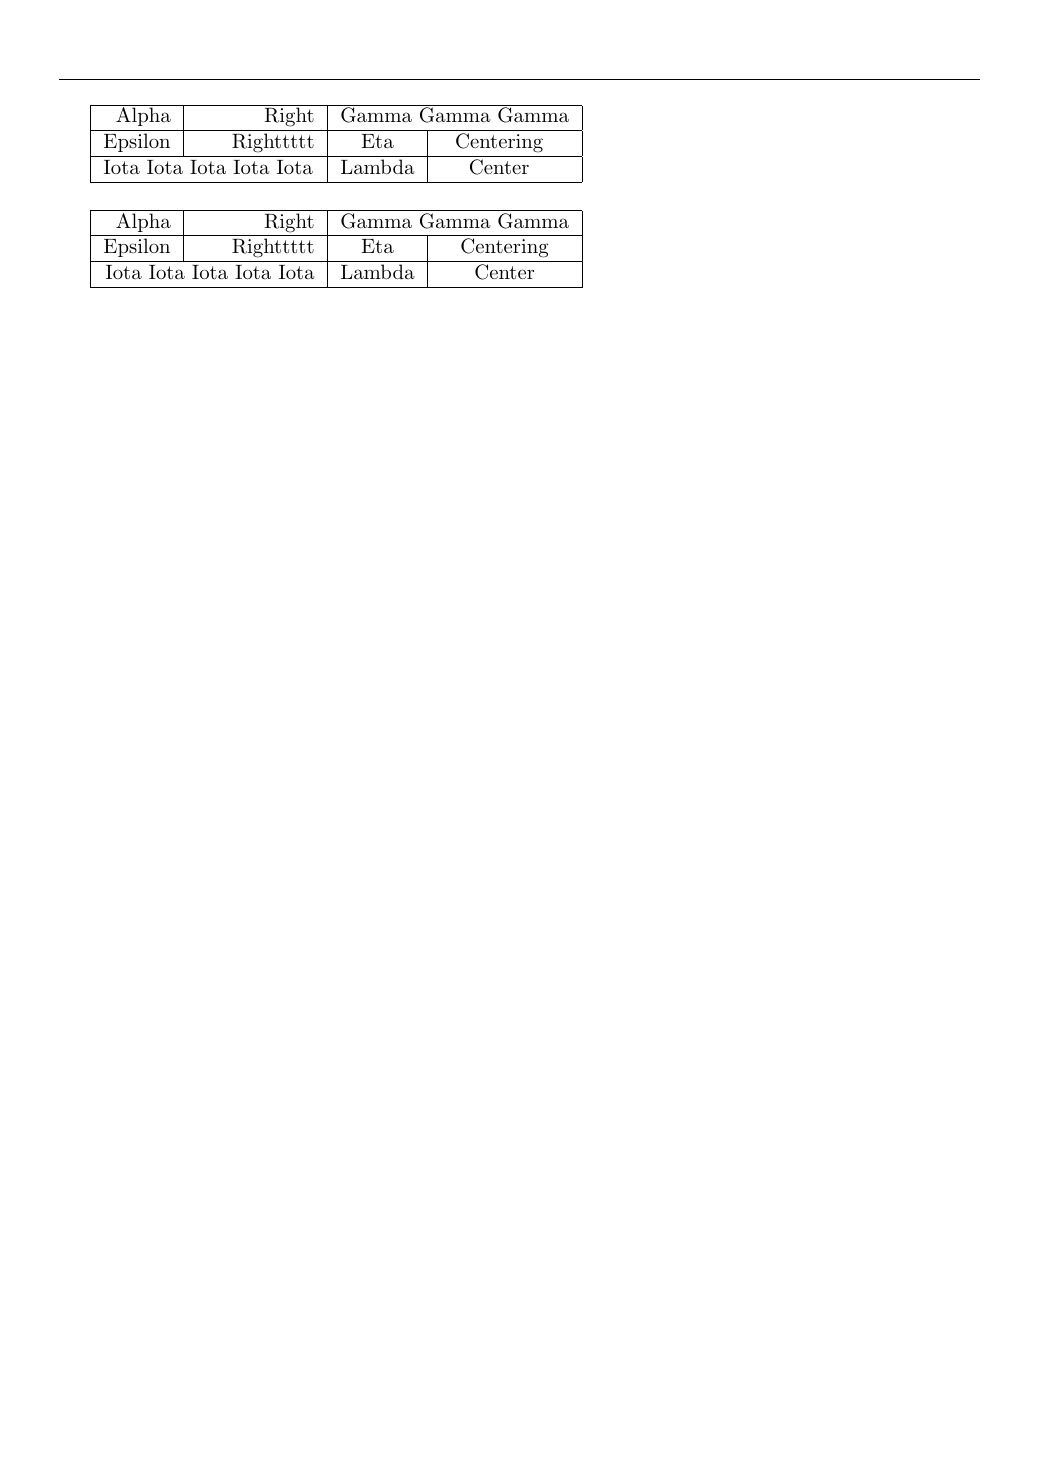
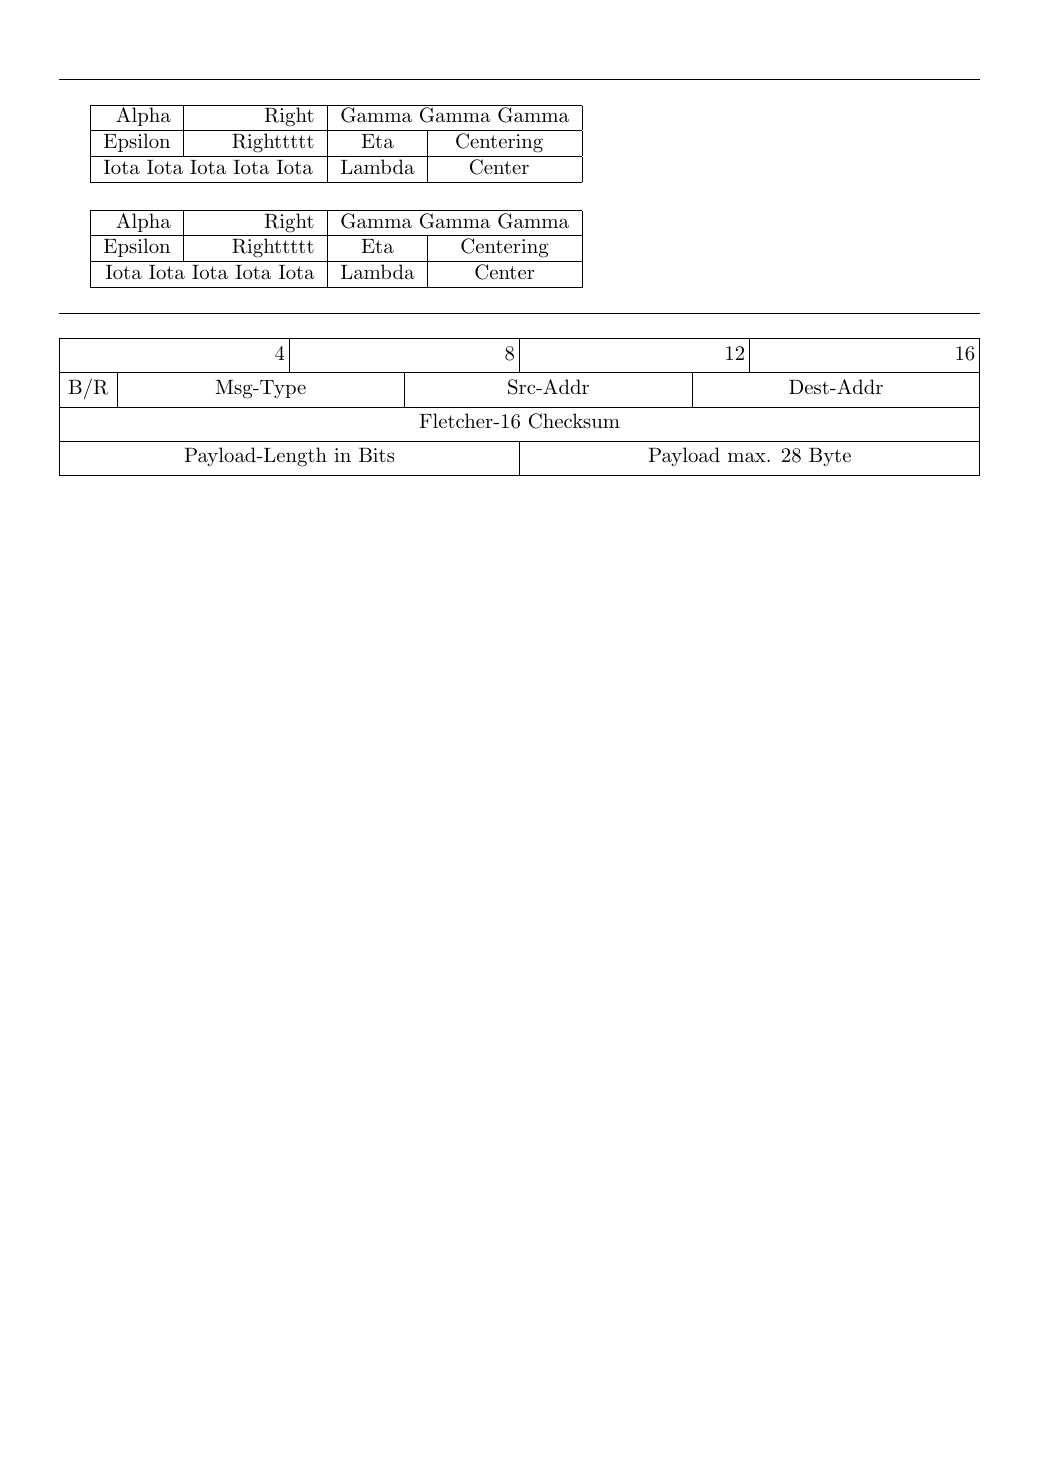
update test files for issue #15

diff --git a/testfiles/cell-005.tex b/testfiles/cell-005.tex
@@ -37,4 +37,29 @@
 \end{tblr}
 \ENDTEST
 
+\bigskip\hrule\bigskip
+
+%% Issue #15
+\BEGINTEST{testing fix-width columns with all cells spanned}
+\noindent
+\begin{tblr}{width=\textwidth,colsep=2pt,colspec={|*{16}{X[c]|}}}
+\hline
+  \multicolumn{4}{|r|}{4}
+& \multicolumn{4}{r|}{8}
+& \multicolumn{4}{r|}{12}
+& \multicolumn{4}{r|}{16}\\
+\hline
+  \multicolumn{1}{|c|}{B/R}
+& \multicolumn{5}{c|}{Msg-Type}
+& \multicolumn{5}{c|}{Src-Addr}
+& \multicolumn{5}{c|}{Dest-Addr}\\
+\hline
+  \multicolumn{16}{|c|}{Fletcher-16 Checksum}\\
+\hline
+  \multicolumn{8}{|c|}{Payload-Length in Bits}
+& \multicolumn{8}{c|}{Payload max. 28 Byte}\\
+\hline
+\end{tblr}
+\ENDTEST
+
 \end{document}
